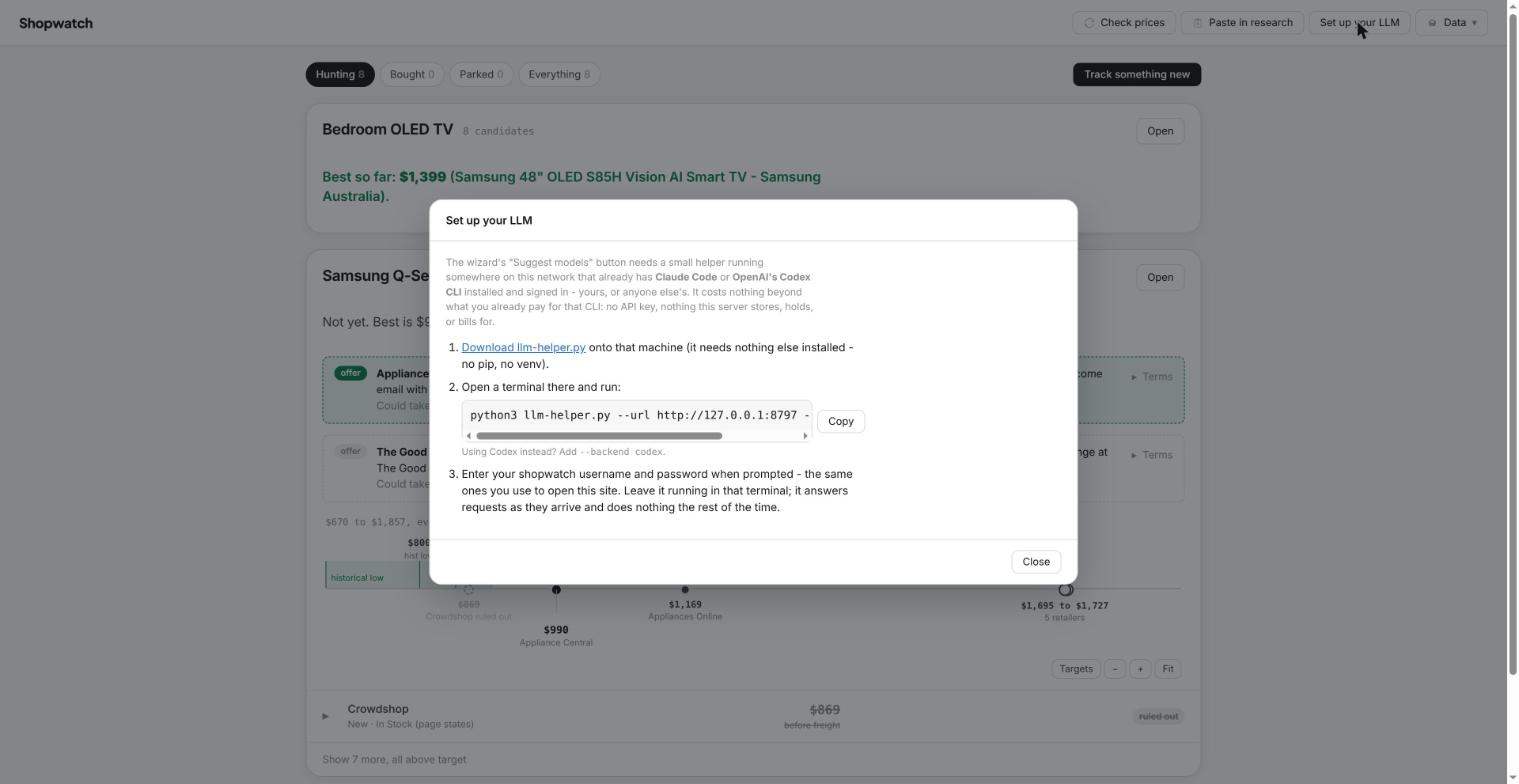
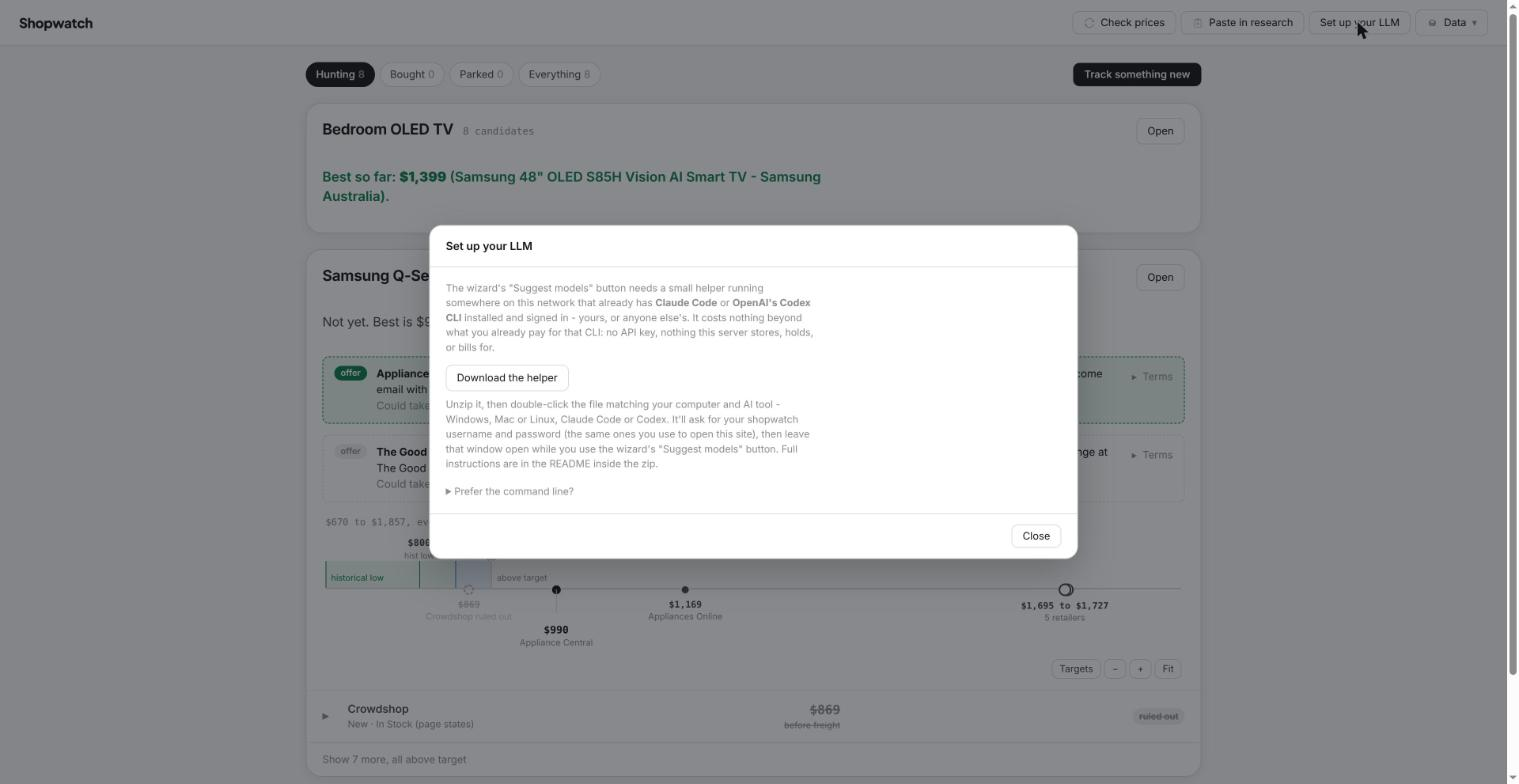
docs: add a TL;DR to the LLM setup instructions, refresh its screenshot
The instructions worked but led with architecture and rationale before
the four things someone actually needs to do - the opposite of what
"give people a folder to download to reduce the technical aspect" was
asking for. A TL;DR now sits right under the heading: click, download,
double-click the matching file, enter your login, done - five steps,
no jargon, a small table for "which file is mine". Everything that was
already there (the command-line path, why this doesn't need a
container-side API key, the job-queue shape, the URL validation) is
still present, just folded into a collapsed <details> for anyone who
wants the detail rather than deleted.

Also replaced docs/screenshots/llm-setup.jpg, which still showed the
pre-zip-bundle modal (command-line first, no "Download the helper"
button) from before the previous two PRs shipped.

Changed region(s): [[0.2785, 0.2449, 0.7117, 0.6735], [0.2785, 0.7041, 0.7117, 0.7653]]

diff --git a/README.md b/README.md
@@ -474,18 +474,37 @@ fewer than 2 real listings, and when it does, the response is deliberately label
 
 ## Suggesting a model number ("Set up your LLM")
 
+**TL;DR - 5 minutes, no coding:**
+
+1. Click **"Set up your LLM"** at the top of the page, then **"Download the helper"**.
+2. Unzip it.
+3. Double-click the one file matching your computer and AI tool (a plain-English
+   `README.txt` is in the zip too if you're not sure which):
+
+   |            | Claude Code               | Codex                     |
+   |------------|----------------------------|----------------------------|
+   | Windows    | `run-claude-windows.bat`   | `run-codex-windows.bat`   |
+   | Mac        | `run-claude-mac.command`   | `run-codex-mac.command`   |
+   | Linux      | `run-claude-linux.sh`      | `run-codex-linux.sh`      |
+
+4. A window opens and asks for your shopwatch username and password (the same ones
+   you already use to open this site). Enter them and leave that window open.
+
+That's it. Back in the wizard, type what you're watching and click "Suggest models" -
+candidates appear as clickable chips a few seconds later. You'll need Claude Code or
+Codex already installed and signed in on that computer, but nothing else: no API key,
+no `pip install`, nothing this server stores or bills for.
+
+<details>
+<summary>How it works, the command-line option, and why it's built this way</summary>
+
 The wizard's "Suggest models" button turns a rough description ("Dreame RoboMower")
 into a short list of real candidate model numbers, using **your own** Claude Code or
 Codex CLI login - no API key, nothing this server holds or bills for.
 
-**Setup, the easy way:** "Set up your LLM" in the header links to
-`GET /tools/llm-helper.zip` - a zip containing `llm-helper.py`, a plain-English
-`README.txt`, and a double-click launcher per OS x backend combination
-(`run-claude-mac.command`, `run-codex-windows.bat`, etc.), each with the real
-shopwatch URL already filled in - no command to type or edit. Unzip it on any
-machine that already has Claude Code or Codex CLI installed and signed in,
-double-click the file matching that computer and CLI, enter the shopwatch
-username and password when prompted, and leave it running.
+**The zip** (`GET /tools/llm-helper.zip`) contains `llm-helper.py`, a plain-English
+`README.txt`, and a double-click launcher per OS x backend combination, each already
+pointed at this shopwatch instance - no command to type or edit.
 
 **Setup, from the command line**, if you'd rather:
 
@@ -521,6 +540,16 @@ corrupt matching later. The prompt asks the model to return zero candidates rath
 guess when it isn't genuinely confident, and every response is shown with a caveat note
 about confidence or recency - clicking a chip only fills the text field, exactly as if
 you had typed it yourself.
+
+**The URL that goes into the zip is validated, not trusted.** `GET
+/tools/llm-helper.zip?url=...` writes that value as plain data into the zip
+(`shopwatch-url.txt`, which each launcher reads at runtime) rather than ever splicing
+it into a script's own text, and rejects anything that isn't exactly `https?://host
+[:port]` before it gets that far - a download link is something someone could be
+tricked into clicking, so the value behind `url` gets no more trust than any other
+request parameter.
+
+</details>
 
 ## Deployed on opti
 
